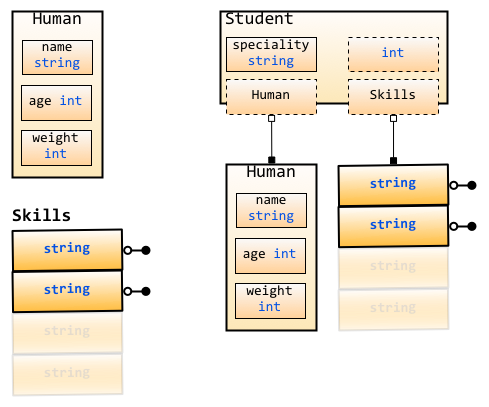
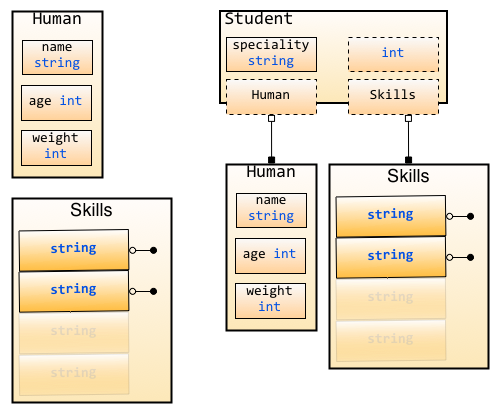
updates images and some corresponing sentences.

diff --git a/2.5.md b/2.5.md
@@ -26,9 +26,13 @@
 
 这样实现有什么问题，当然没有问题咯，但是当你代码里面增加一个圆形、正方形、多边形等的时候，然后你又想计算他们的面积的时候怎么办啊？那就增加新的函数咯，但是函数名你就必须要跟着换了，你就要把函数名变成`area_rectangle, area_circle, area_triangle...`
 
-这样的实现不是最优雅的，而且从概念上来说一个形状的面积应该是属于它的一个特性，应该是属于这个形状的，就像他的字段一样。
+变成下图所表示的那样， 椭圆代表函数, 而这些函数并不从属于struct(或者以面向对象的术语来说，并不属于class)，他们是单独存在于struct外围，而非在概念上属于某个struct的。
 
-基于上面的原因所以就有了`method`的概念，`method`是附属在一个给定的类型上的，他的语法和函数的申明语法几乎一样，除了在`func`后面跟一个receiver(也就是给定的类型)
+![](images/2.5.shapes_func_without_receive.png?raw=true)
+
+很显然，这样的实现并不优雅，而且从概念上来说一个"形状"的面积应该是"形状"的一个特性，应该是属于这个形状的，就像他的字段一样。
+
+基于上面的原因所以就有了`method`的概念，`method`是附属在一个给定的类型上的，他的语法和函数的声明语法几乎一样，只是在`func`后面增加了一个receiver(也就是method所依从的主体)，用上面提到的形状的例子来说，method `area()` 是依赖于某个形状(比如说Rectangle)来发生作用的。Rectangle.area()的发出者应该是Rectangle， area()是属于Rectangle而非一个外围函数。更具体地说，Rectangle存在字段length 和 width,同时存在方法area(), 这些字段和方法都属于Rectangle。
 
 用Rob Pike的话来说就是：
 
@@ -75,11 +79,21 @@ method的语法如下：
 		fmt.Println("Area of c2 is: ", c2.area())
 	}
 
+
+
 在使用method的时候重要注意几点
 
 - 虽然method的名字一模一样，但是如果接收者不一样，那么method就不一样
 - method里面可以访问接收者的字段
 - 调用method通过`.`访问，就像struct里面访问字段一样
+
+图示如下:
+
+![](images/2.5.shapes_func_with_receive_cp.png?raw=true)
+
+在上例，method area() 分别属于Rectangle和Circle， 于是他们的 Receiver 就变成了Rectangle 和 Circle, 意思是，这个area()方法 是由 Rectangle/Circle 发出的。
+
+>值得说明的一点是，图示中method用虚线标出，意思是此处方法的Receiver是以值传递，而非引用传递，是的，Receiver还可以是指针, 两者的差别在于, 指针作为Receiver会对实例对象的内容发生操作,而普通类型作为Receiver仅仅是以副本作为操作对象,并不对实例对象发生操作。后文对此会有详细论述。
 
 那是不是method只能作用在struct上面呢？当然不是咯，他可以定义在任何你自定义的类型、内置类型、struct等各种类型上面。这里你是不是有点迷糊了，什么叫自定义类型，自定义类型不就是struct嘛，不是这样的哦，struct只是自定义类型里面一种比较特殊的类型而已，还有其他自定义类型申明，可以通过如下这样的申明来实现。
 
